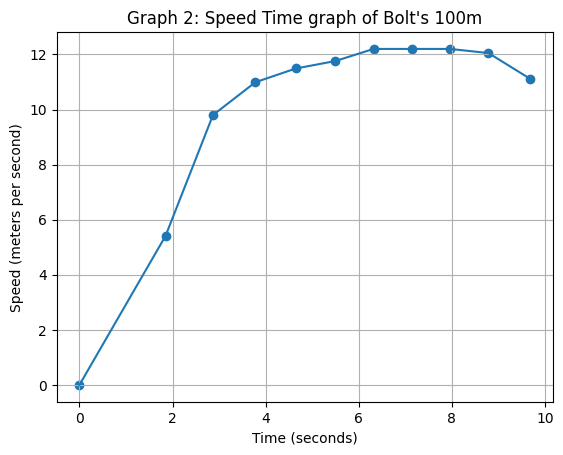
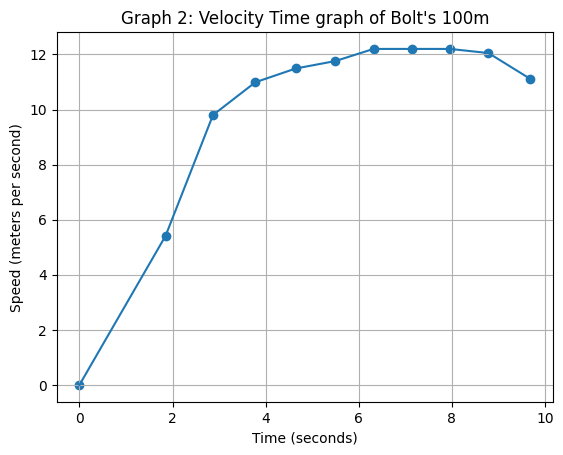
Finished lesson 3

Changed region(s): [[0.2114, 0.0, 0.8757, 0.0615]]

diff --git a/docs/Lesson 3.html b/docs/Lesson 3.html
@@ -242,6 +242,10 @@ window.Quarto = {
 <li>I am going to drop an object off a building. The object falls following the equation <span class="math inline">\(x(t)=t^5-2t^2+5t\)</span>. What is the speed of the object 2 seconds after I drop it?</li>
 </ol>
 </section>
+<section id="disclaimer" class="level2">
+<h2 class="anchored" data-anchor-id="disclaimer">Disclaimer</h2>
+<p>I cannot remember if I told everyone this in lessons but it is important. Within this course I have said that speed is the same as velocity and distance is the same as displacement. This is not true, but it does not impact the Maths that we are doing and as this is a Maths course and not a Physics course then I am happy to ignore this. If you ever talk about this subject outside of Svitlo (maybe in a conversation with another teacher), then they will probably tell you which one to use. If I have time I will make an area of the website which explains the difference.</p>
+</section>
 <section id="section-2-differentiating-twice" class="level2">
 <h2 class="anchored" data-anchor-id="section-2-differentiating-twice">Section 2: Differentiating twice?</h2>
 <p>We have only looked at differenciating an equation for displacement to get an equation for speed, but what happens if we differenciate our equation for speed? In lessons one and two we spoke about how the gradient of a displacement-time graph represents the speed of the object. But what if we plotted a speed-time graph, what would the gradient of a speed time graph represent?</p>
@@ -256,7 +260,7 @@ window.Quarto = {
 </div>
 </div>
 <p>Now what would a speed-time graph look like? We know that the speed is represented by the gradient of the graph, so we can work out the speed for each interval by finding the gradient at each interval. For example, Bolt’s speed between <span class="math inline">\(0m\)</span> and <span class="math inline">\(10m\)</span> is going to be <span class="math inline">\(\approx \frac{10}{1.9}\)</span>, because it looks like it took Bolt around <span class="math inline">\(1.9s\)</span> to travel the first <span class="math inline">\(10m\)</span>. By working out the speeds at each interval, our speed-time graph will look like:</p>
-<div id="c083e6ed-4ca6-44cd-8420-db0ca5710fe5" class="cell" data-execution_count="6">
+<div id="c083e6ed-4ca6-44cd-8420-db0ca5710fe5" class="cell" data-execution_count="2">
 <div class="cell-output cell-output-display">
 <div>
 <figure class="figure">
@@ -265,6 +269,23 @@ window.Quarto = {
 </div>
 </div>
 </div>
+<p>We can notice that if we took the gradient of this graph then we would be doing: <span class="math display">\[ \text{Gradient} = \dfrac{\text{Change in velocity}}{\text{Change in time}}\]</span></p>
+<p>The gradient of this curve is the change in velocity over time. If any of you have studied a lot of physics, then you will realise that this is the formula for acceleration! If we think about this not from a Maths point of view then this does make perfect sense. If something is increasing it’s speed (changing it’s velocity), then it will be accellerating.</p>
+<p>We can see this by looking at graph 2. We know that when Usain Bolt starts the race he will want to get to his top speed as quickly as possible, this means he will have a lot of accelleration at the start of the race. We can see that the graph shows this because the graph has a very steep gradient between <span class="math inline">\(0\)</span> and <span class="math inline">\(3\)</span> seconds. As Bolt gets to his top speed, he will stop accellerating because he cannot run any faster. The graph shows this because the gradient gets less steep between around <span class="math inline">\(4\)</span> seconds and <span class="math inline">\(9\)</span> seconds. You can also see that the graph gets completely flat between around <span class="math inline">\(6\)</span> seconds and <span class="math inline">\(8\)</span> seconds, showing us that Bolt will be at his top speed between these times.</p>
+<p>Now hopefully you understand a little bit more about velocity-time graphs, we can do some Maths. It turns out, that if we take the derivative of an equation for speed (or velocity) then it will give us an equation for acceleration. This means that: <span class="math display">\[ a(t) = \lim_{\Delta t \rightarrow 0} \dfrac{v(t + \Delta t) - v(t)}{\Delta t}\]</span> Alternatively, we can take the second derivative of an equation for displacement which will give us an equation for acceleration. Now we can look at some examples.</p>
+<section id="example-1" class="level3">
+<h3 class="anchored" data-anchor-id="example-1">Example 1</h3>
+<p>Last week we looked at dropping a ball off a building. We said that it’s equation for displacement would be <span class="math inline">\(x(t)=x^2\)</span>, and it’s equation for speed (or velocity) would be <span class="math inline">\(v(t)=2t\)</span>. Can you calculate it’s acceleration after 2 seconds?</p>
+<p>We can differenciate our equation for speed to give us an equation for acceleration. Differenciating our equation for speed will give us: <span class="math display">\[ a(t) = \lim_{\Delta t \rightarrow 0} \dfrac{2(t + \Delta t) - 2t}{\Delta t} = \lim_{\Delta t \rightarrow 0} \dfrac{2t - 2 \Delta t -2t}{\Delta t} = \lim_{\Delta t \rightarrow 0} \dfrac{2 \Delta t}{\Delta t} = 2\]</span> So our equation for acceleration is <span class="math inline">\(a(t)=2\)</span>. As there is no <span class="math inline">\('t'\)</span> in our equation for acceleration and we only have a constant, then the acceleration of the ball is going to be equal to <span class="math inline">\(2\)</span> at possible time. To answer our question, the acceleration of the ball after two seconds will be equal to two.</p>
+</section>
+</section>
+<section id="practice-questions-differenciating-twice" class="level2">
+<h2 class="anchored" data-anchor-id="practice-questions-differenciating-twice">Practice questions: Differenciating twice?</h2>
+<ol type="1">
+<li>An object’s equation for displacement is <span class="math inline">\(x(t)=4t^3\)</span>. Can you tell me it’s acceleration and speed after <span class="math inline">\(2\)</span> seconds?</li>
+<li>An object’s equation for displacement is <span class="math inline">\(x(t)=-6t^9+t^2\)</span>. Can you tell me it’s acceleration and speed after <span class="math inline">\(1\)</span> second?</li>
+<li>An object’s equation for displacement is <span class="math inline">\(x(t)=2t^2+1\)</span>. Can you tell me what it’s equation for accelleration is? And how would you interpret a velocity-time graph for this equation of motion?</li>
+</ol>
 </section>
 <section id="extension-content-proof-for-the-formula-vtntn-1" class="level2">
 <h2 class="anchored" data-anchor-id="extension-content-proof-for-the-formula-vtntn-1">Extension content: Proof for the formula <span class="math inline">\(v(t)=nt^{n-1}\)</span></h2>
